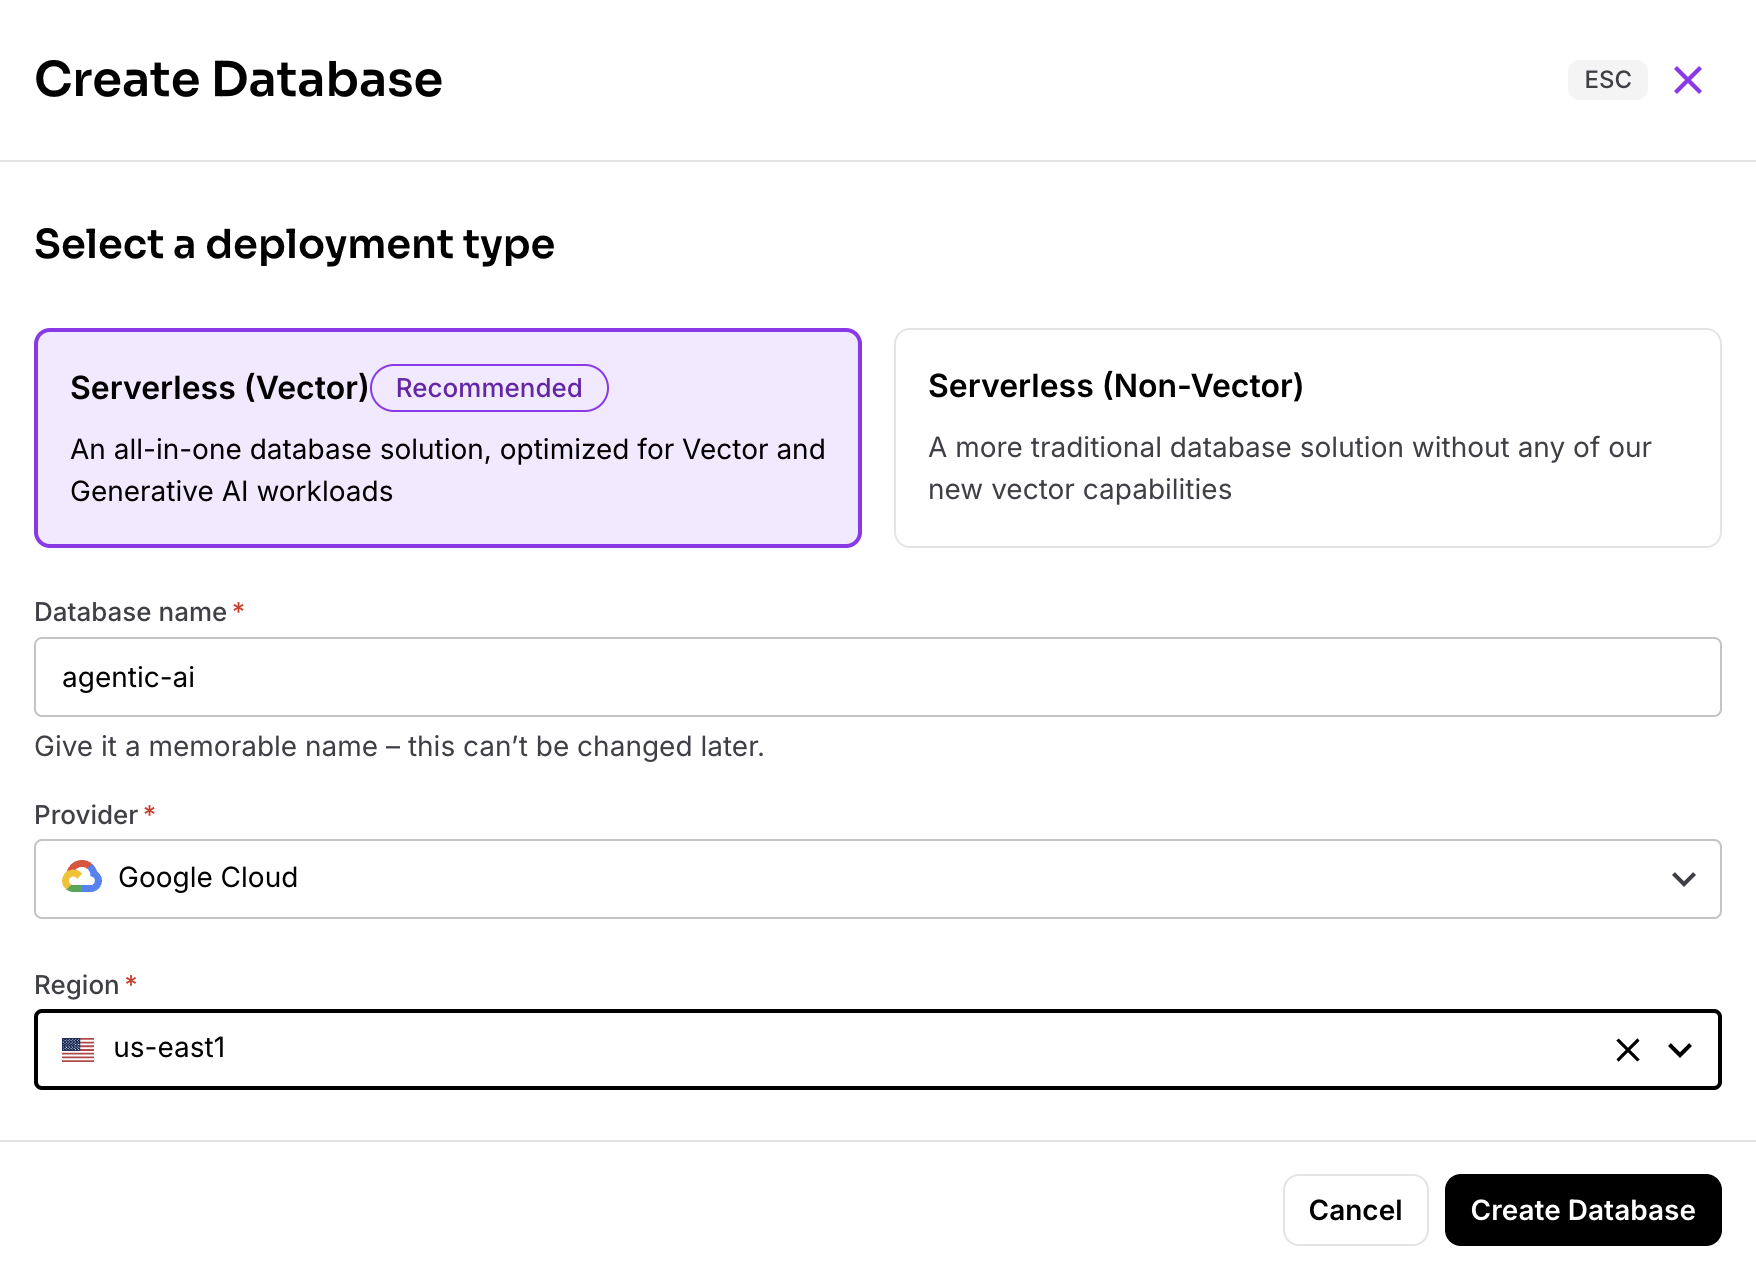
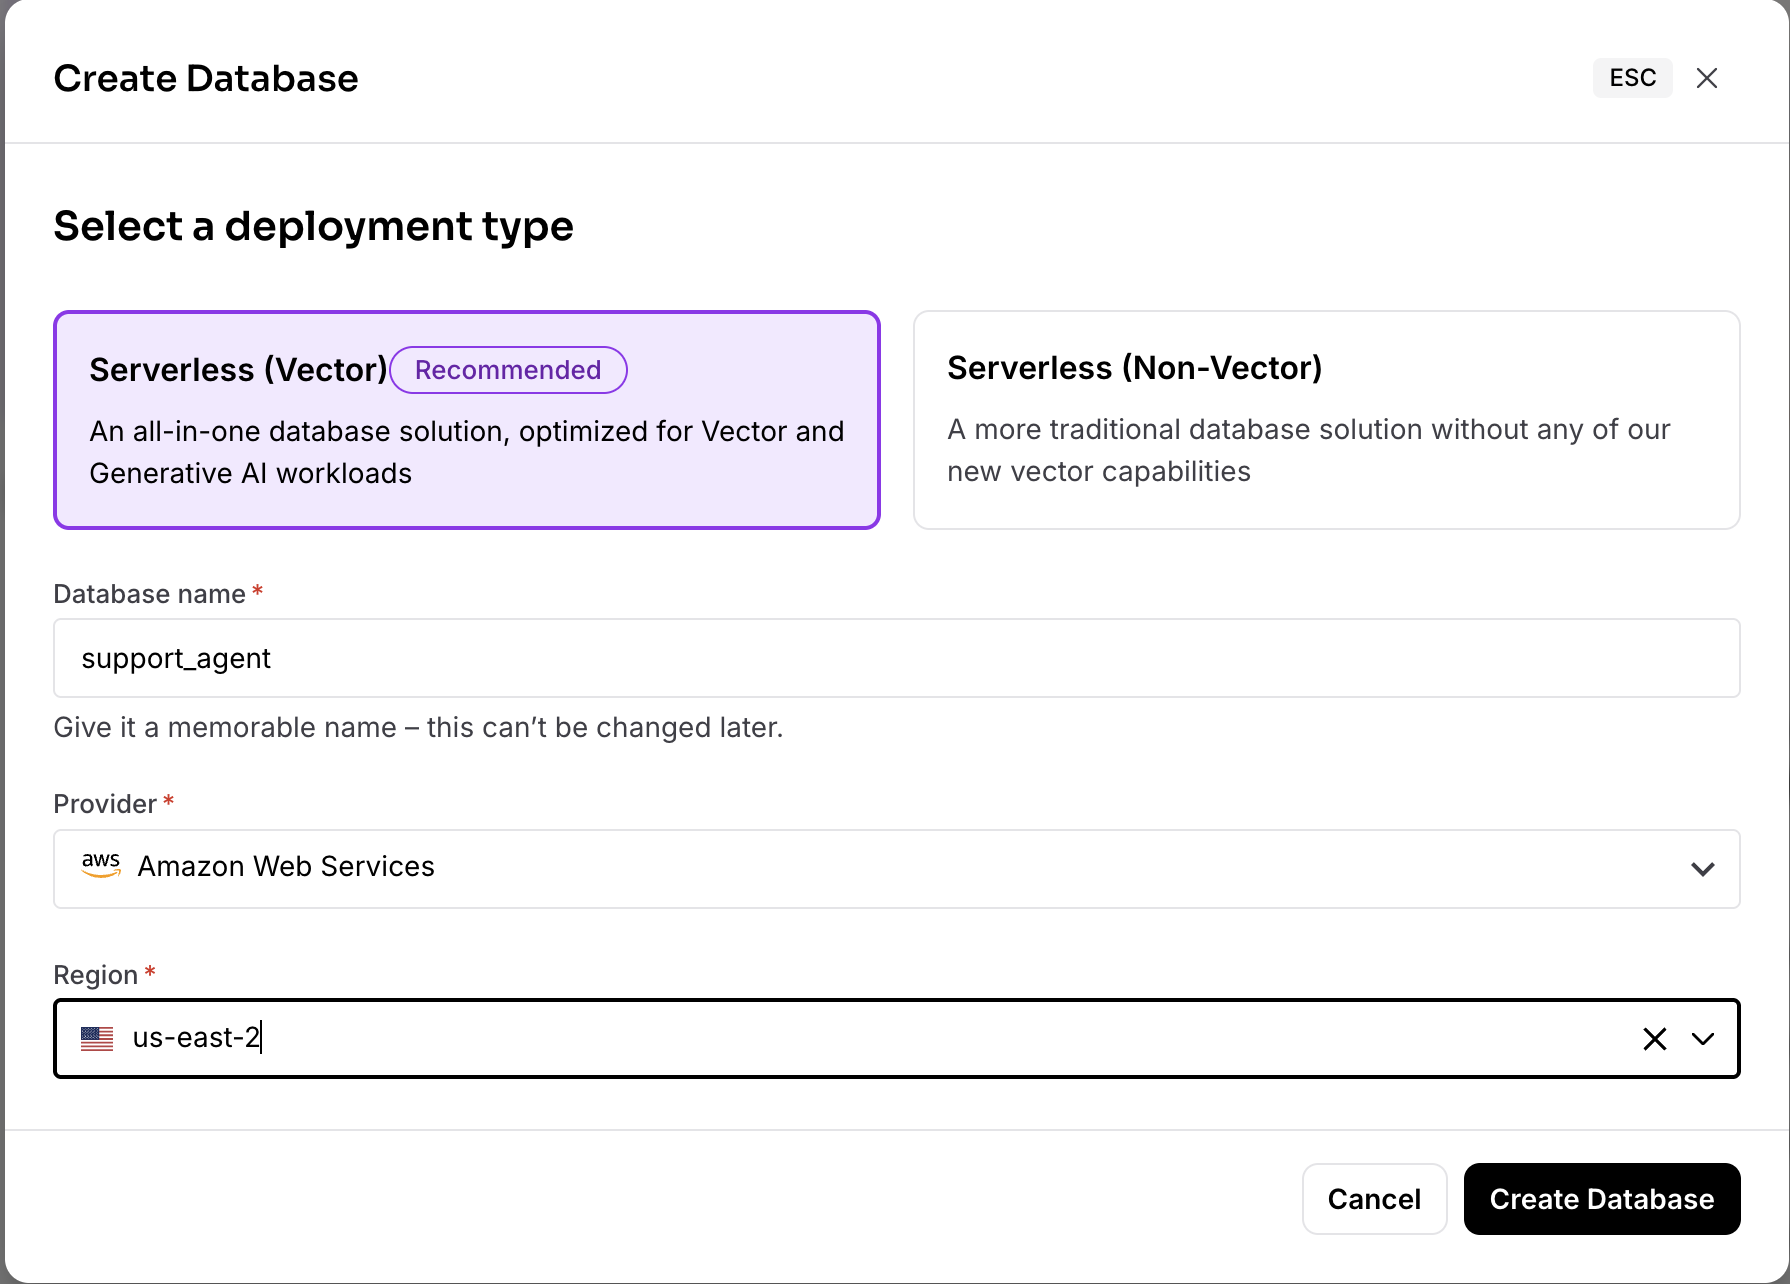
Clarifications

diff --git a/README.md b/README.md
@@ -1,10 +1,10 @@
 # 🧠 Agentic AI Workshop – Customer Support Agent
 
 ## 🎯 Goal of the workshop
-Learn how to build a powerful, intelligent customer support agent using DataStax Langflow. You’ll start by creating a simple chatbot with **watsonx.ai** (IBM's generative AI platform), then enrich it with retrieval-augmented generation (RAG) by connecting it to your own FAQ knowledge base using Astra DB. Finally, you’ll add tools such as order lookups, product info access, calculators, and web tools to make your agent truly agentic—capable of reasoning, taking actions, and handling real-world customer support scenarios.
+Learn how to build a powerful, intelligent customer support agent using **DataStax Langflow**. You’ll start by creating a simple chatbot with **watsonx.ai** (IBM's generative AI platform), then enrich it with retrieval-augmented generation (RAG) by connecting it to your own FAQ knowledge base using **DataStax Astra DB**. Finally, you’ll add tools such as order lookups, product info access, calculators, and web tools to make your agent truly agentic—capable of reasoning, taking actions, and handling real-world customer support scenarios.
 
 By the end of this workshop, you’ll have a fully functional AI agent that can:
-- Answer FAQs using vector-based document search
+- Answer FAQs (unstructured documents) using vector-based document search
 - Retrieve live order and product details from structured data
 - Combine tools (like calculators and lookups) to generate multi-step responses
 - Adapt dynamically to user intent—just like a real support agent would
@@ -24,7 +24,8 @@ Follow the below steps and note down the **Astra DB API Endpoint**, **Astra DB A
 Make sure you have a vector-capable Astra database (get one for free at [astra.datastax.com](https://astra.datastax.com))
 - Sign up or log in
 - Click `Databases` and click `Create Database` 
-- Select `Serverless (Vector)`, type a database name, i.e. `support_agent` and select a Cloud Provider and Region of choice
+- Select `Serverless (Vector)`, type a database name, i.e. `support_agent` and select `AWS` as Cloud Provider and `us-east-2` as Region
+    - ⚠ Please stick to these settings as that enables us to use the [Astra Vectorize](https://www.datastax.com/blog/simplifying-vector-embedding-generation-with-astra-vectorize) functionality
 - Wait a few minutes for it to provision
 - Note down the **API Endpoint** which can be found in the right pane underneath *Database details*.
 - Click on `Generate Token` and give it a name, i.e. `support_agent-token` and click `Generate`. Now click on the copy button and paste the **Application Token** somewhere for later use
@@ -63,7 +64,7 @@ To make life easier, we'll use the awesome Github Codespace functionality. Githu
 
 4. Cool! You just created a copy in your own Gihub account! Now let's get started with coding. Click `Create codespace on main` as follows:
 
-    ![codespace](./assets/create-codespace.png)
+    ![create-codespace](./assets/create-codespace.png)
 
 5. Configure the secrets as follows:
 
@@ -82,6 +83,8 @@ To make life easier, we'll use the awesome Github Codespace functionality. Githu
     ASTRA_DB_API_ENDPOINT=your-astra-endpoint
     ASTRA_DB_APPLICATION_TOKEN=your-astra-token
     ```
+
+    ![codespace](./assets/codespaces.png)
 
 6. Now we can run Langflow as follows in the terminal window:
 
